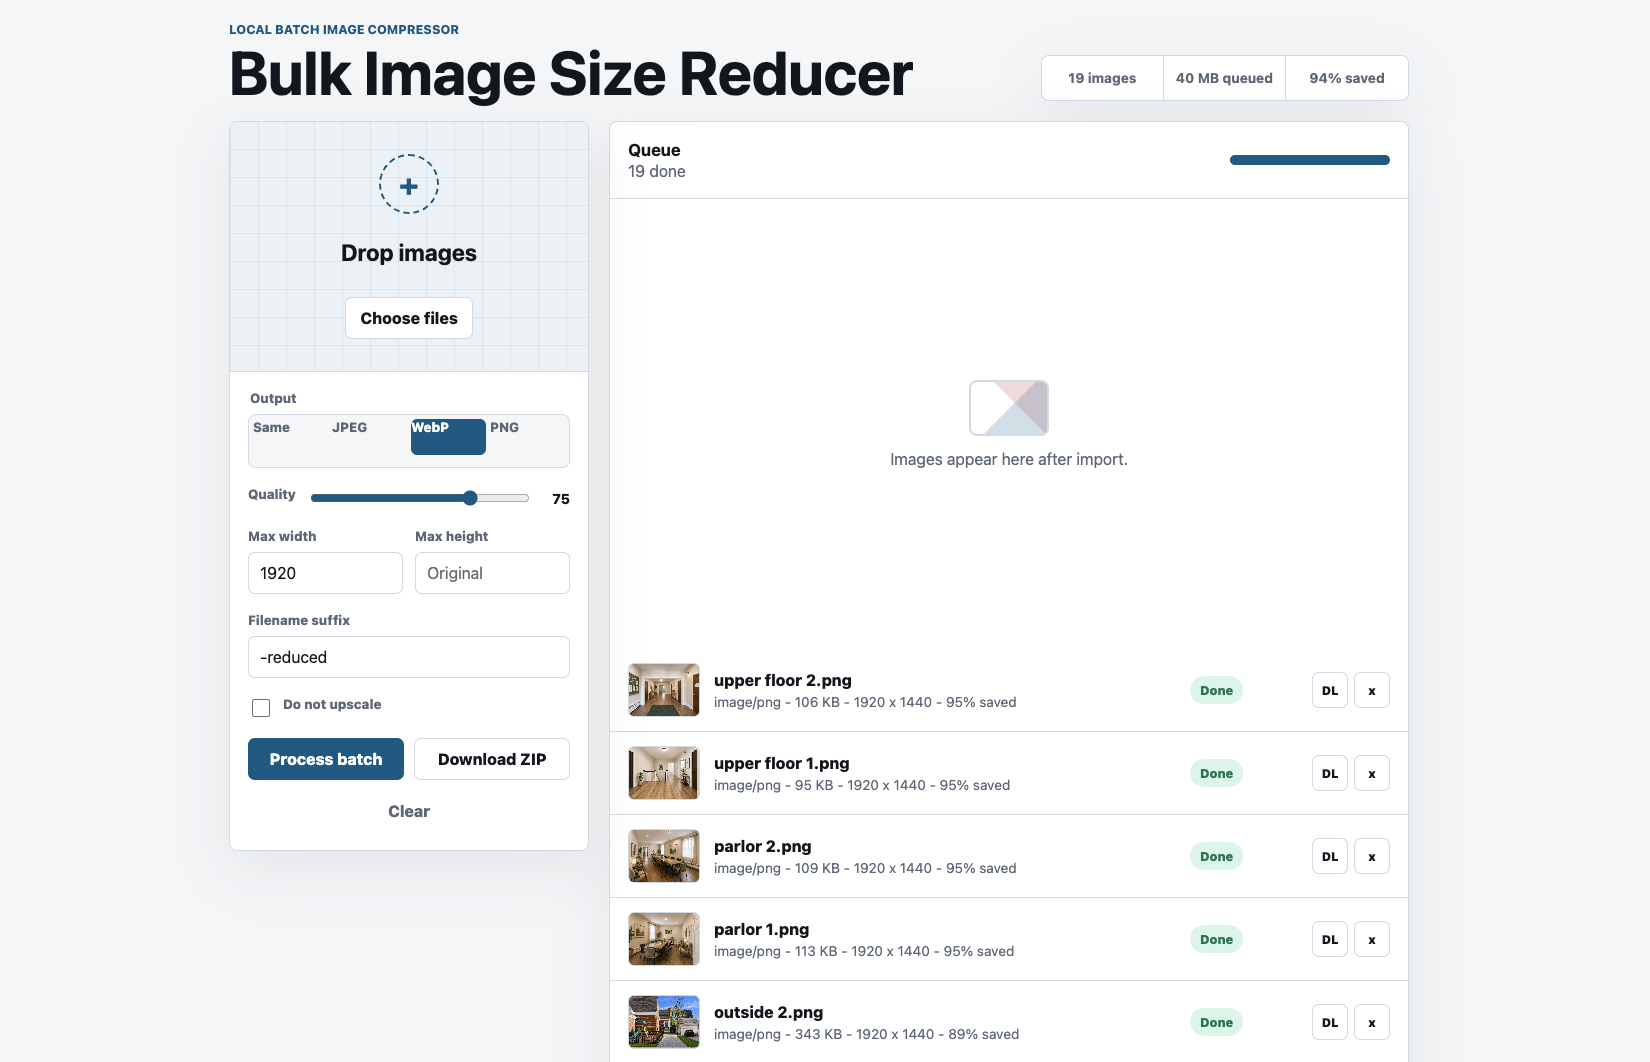
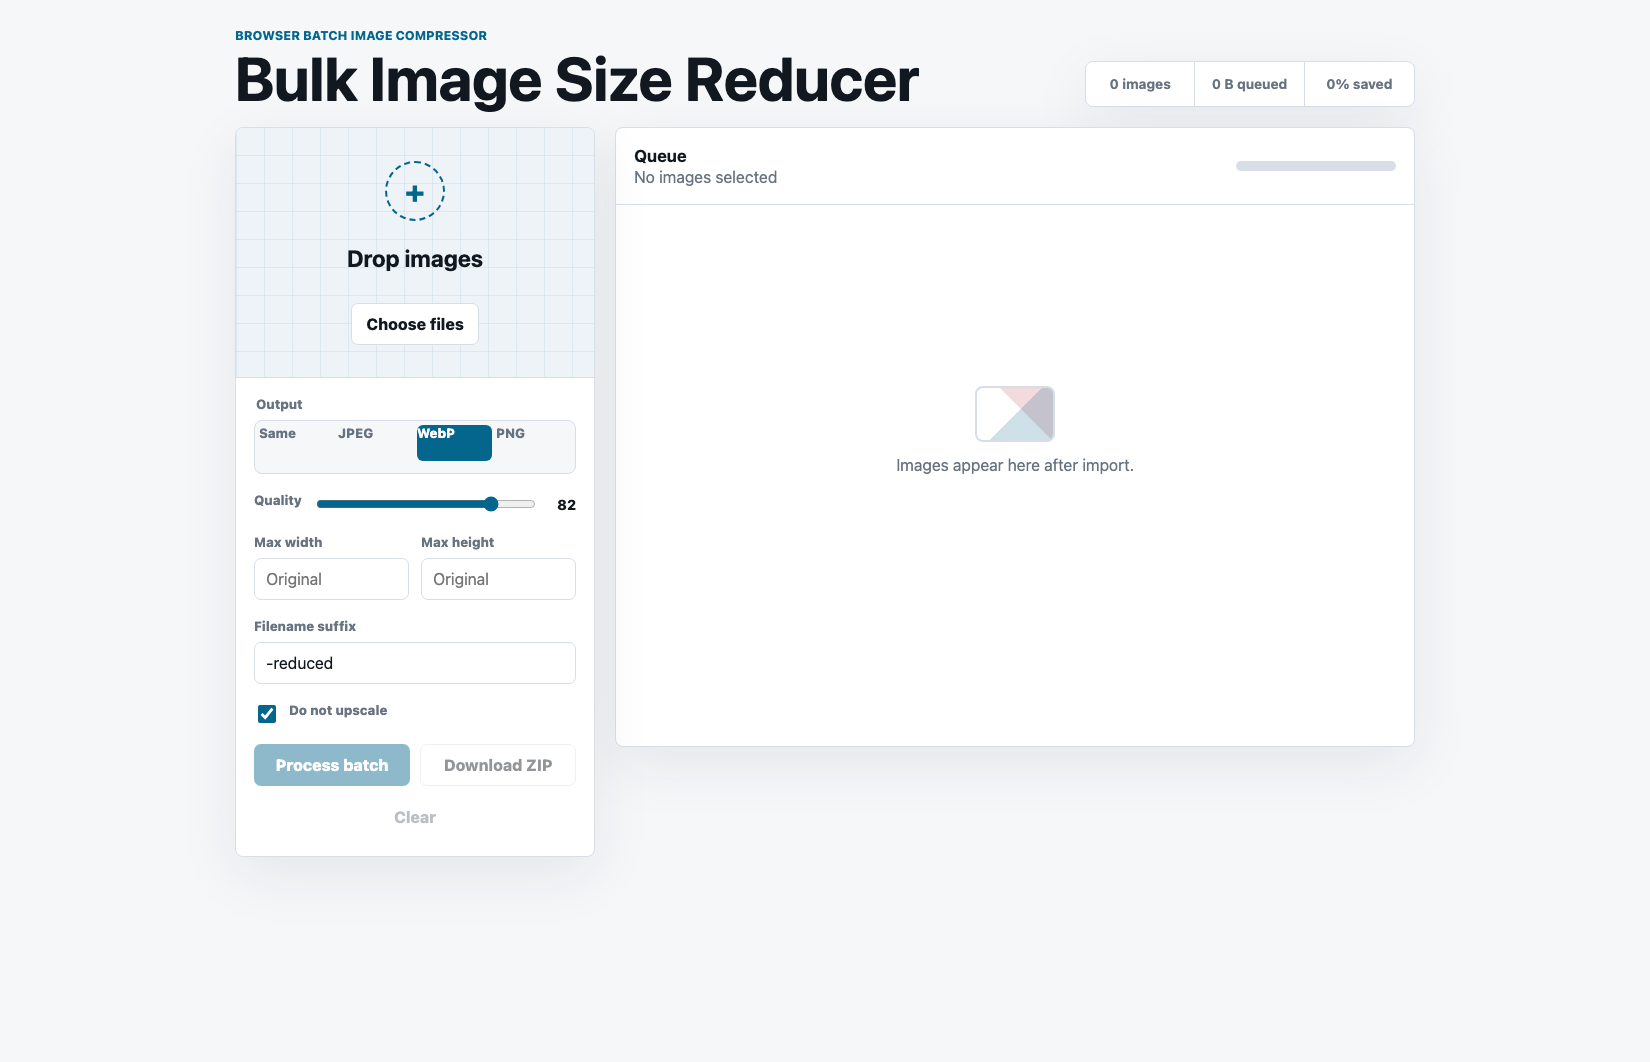
Rewrite hosted app copy

diff --git a/index.html b/index.html
@@ -10,7 +10,7 @@
     <div class="app-shell">
       <header class="app-header">
         <div>
-          <p class="eyebrow">Local batch image compressor</p>
+          <p class="eyebrow">Browser batch image compressor</p>
           <h1>Bulk Image Size Reducer</h1>
         </div>
         <div class="header-metrics" aria-live="polite">

diff --git a/README.md b/README.md
@@ -1,6 +1,6 @@
 # Bulk Image Size Reducer
 
-A fast, local-first batch image compressor for people who want the practical parts of Squoosh without feeding files through one at a time.
+A fast, browser-based batch image compressor for people who want the practical parts of Squoosh without feeding files through one at a time.
 
 Drop in a whole folder of images, choose an output format, tune quality and max dimensions, then download individual results or a single ZIP.
 
@@ -22,7 +22,7 @@ Live app: [bulk-image-size-reducer.pages.dev](https://bulk-image-size-reducer.pa
 
 Squoosh is excellent for carefully tuning one image, but its public app is not built for quick bulk work. This tool is meant for the everyday batch case: resize and reduce a set of images with consistent settings, then move on.
 
-## Run Locally
+## Run in Development
 
 No install step is required beyond Node.js.
 
@@ -63,7 +63,7 @@ Image processing happens in your browser. Files are decoded, resized, compressed
 .
 |-- app.js        # Batch processing, canvas export, and ZIP creation
 |-- index.html    # Static app shell
-|-- server.mjs    # Tiny local static server
+|-- server.mjs    # Tiny static server for development
 |-- styles.css    # Responsive interface styling
 `-- docs/
     `-- screenshot.png